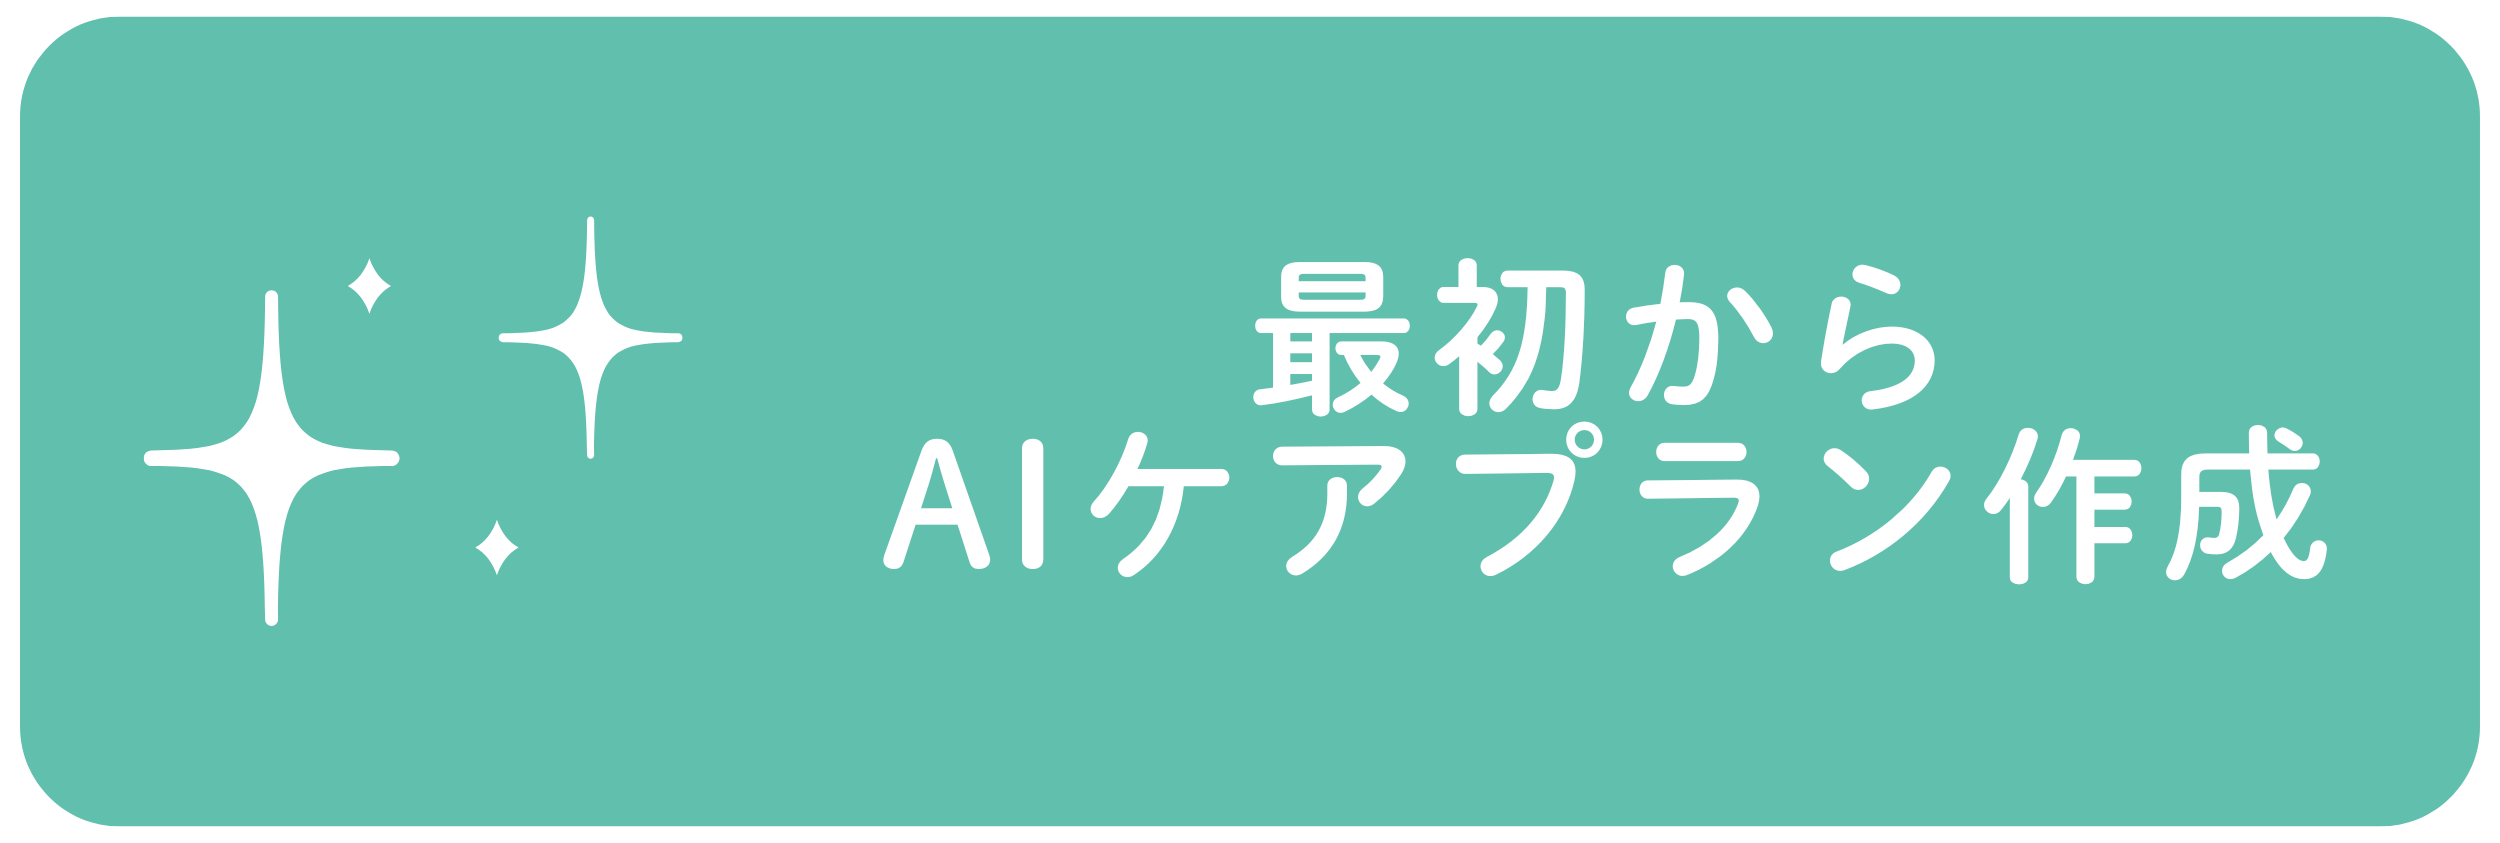
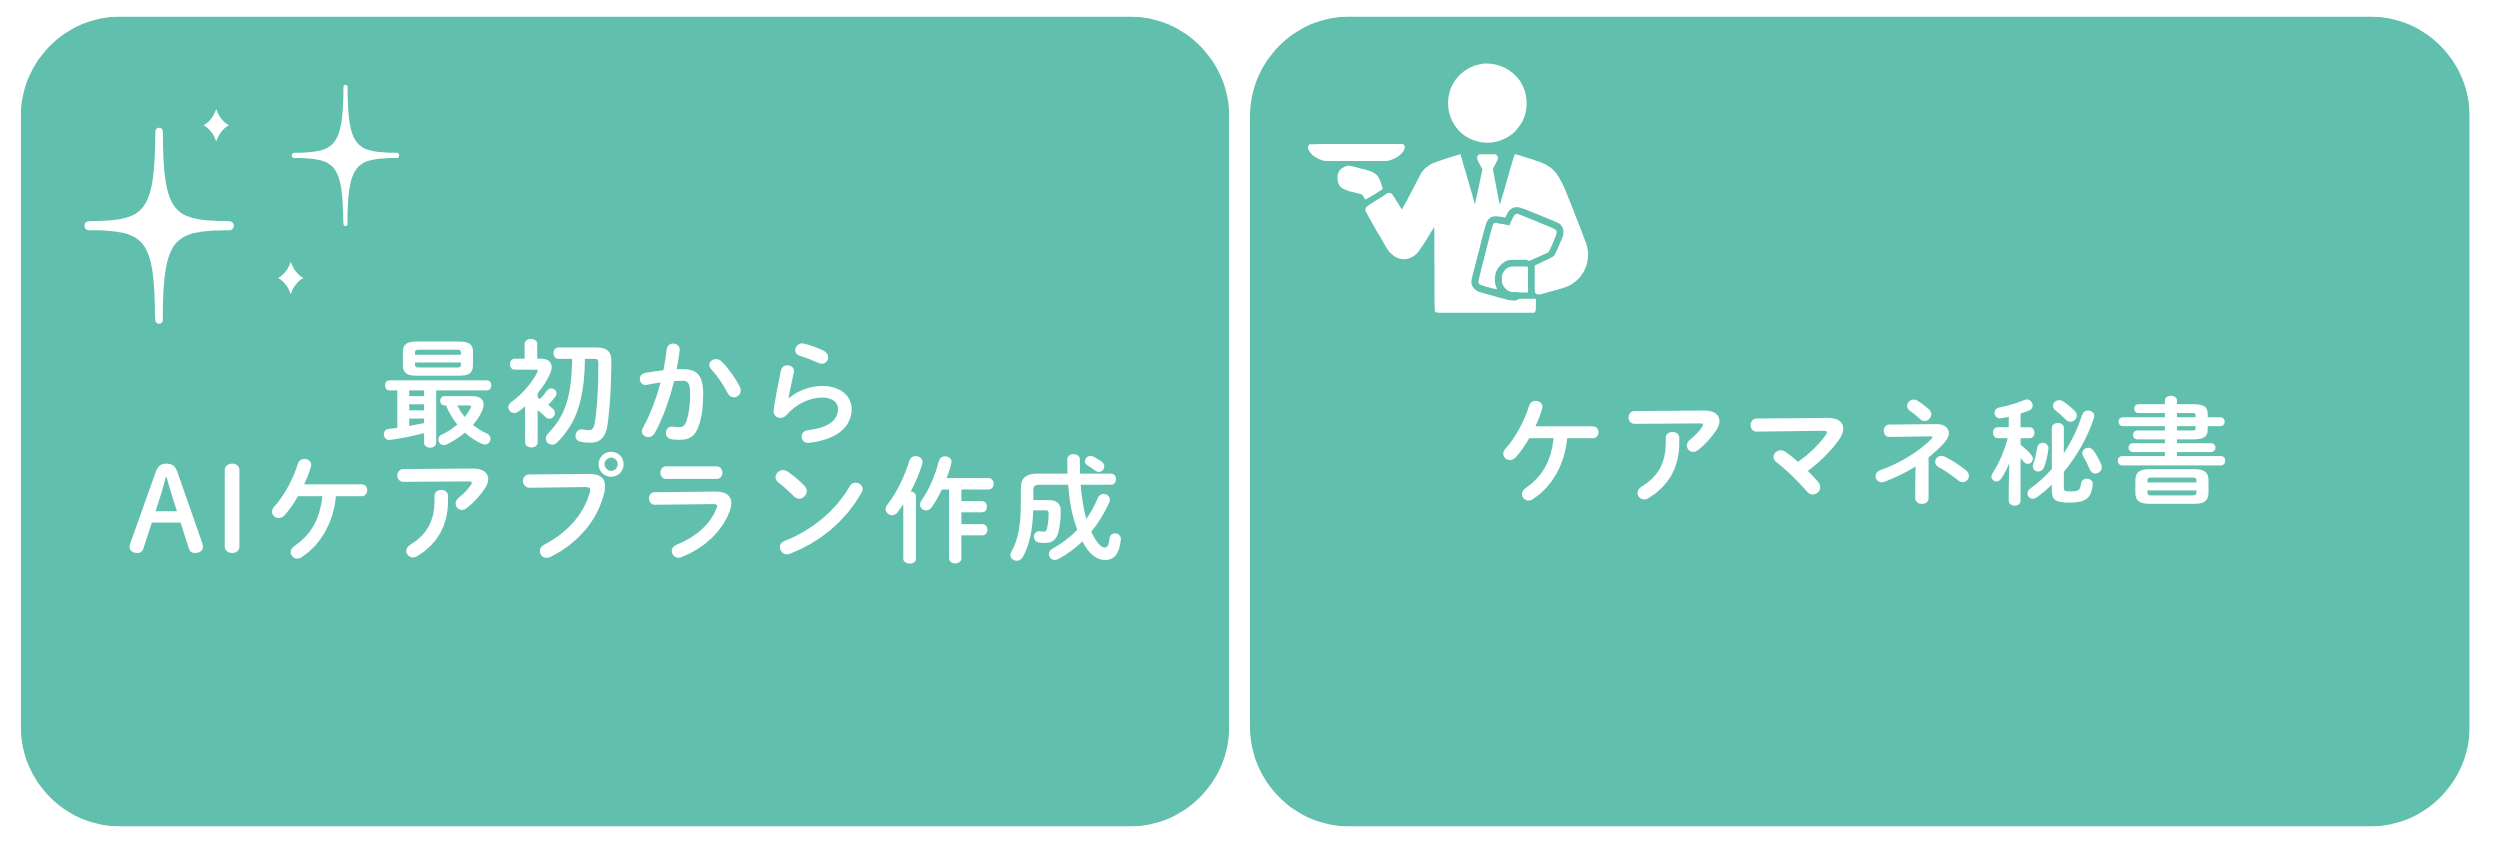
Add implementations for secretary

diff --git a/src/planer_bot/process_secretary.py b/src/planer_bot/process_secretary.py
@@ -1,0 +1,74 @@
+from linebot.v3.webhooks import PostbackEvent, MessageEvent
+from planer_bot.config import db, line_bot_api, openai_client
+from linebot.v3.messaging import (
+    ReplyMessageRequest,
+    TextMessage,
+    FlexMessage,
+    ShowLoadingAnimationRequest,
+)
+from planer_bot.views.flexmessage_list import generate_list_flex_bubble
+
+from planer_bot.gpt import answer_to_user_prompt_from_secretary
+
+
+async def process_secretary(event: PostbackEvent | MessageEvent) -> None:
+    line_identifier = event.source.user_id  # type: ignore
+
+    user_ref = db.collection("users").document(line_identifier)
+    user_info = user_ref.get().to_dict()
+    user_state = user_info.get("state")
+
+    if isinstance(event, MessageEvent):
+        user_text = event.message.text  # type: ignore
+        postback_data = None
+
+    elif isinstance(event, PostbackEvent):
+        postback_data = event.postback.data
+        user_text = ""
+
+    if postback_data == "secretary":
+        # 「ケアマネ秘書」をタップした場合
+        # User state の初期化と、最初の質問の提示
+
+        user_ref.set({"state": "wait_query_to_secretary"}, merge=True)
+
+        await line_bot_api.reply_message(
+            ReplyMessageRequest( # type: ignore
+                reply_token=event.reply_token,
+                messages=[
+                    TextMessage(text="質問カテゴリを選択してください"),
+                    FlexMessage(
+                        alt_text="質問カテゴリを選択してください",
+                        contents=generate_list_flex_bubble(
+                            labels = [
+                                "医師・看護師に質問",
+                                "歯科医師に質問",
+                                "薬剤師に質問",
+                                "栄養士に質問",
+                            ],
+                            input_option="openKeyboard",
+                            fill_in_text=True,
+                        ),
+                    ),
+                ],
+            )
+        )
+
+    if user_state == "wait_query_to_secretary":
+        # ケアマネ秘書に質問をする場合
+        # User state の初期化と、最初の質問の提示
+
+        user_ref.set({"state": None}, merge=True)
+        await line_bot_api.show_loading_animation(
+            ShowLoadingAnimationRequest(chatId=line_identifier)
+        )
+
+        answer = answer_to_user_prompt_from_secretary(openai_client, user_text)
+        await line_bot_api.reply_message(
+            ReplyMessageRequest(
+                reply_token=event.reply_token,
+                messages=[
+                    TextMessage(text=answer),
+                ],
+            )
+        )

diff --git a/src/planer_bot/views/flexmessage_list.py b/src/planer_bot/views/flexmessage_list.py
@@ -9,8 +9,13 @@ from typing import Literal
 
 InputOptions = Literal["openKeyboard", "openRichMenu", "closeRichMenu"]
 
+
 def generate_list_flex_bubble(  # type: ignore [no-any-unimported]
-    labels: list[str], title: str | None = None, text_align: str = "center", input_option: InputOptions | None  = None
+    labels: list[str],
+    title: str | None = None,
+    text_align: str = "center",
+    input_option: InputOptions | None = None,
+    fill_in_text: str | None = None,
 ) -> FlexBubble:
     """
     Flex Message のボタンリストを生成
@@ -39,10 +44,10 @@ def generate_list_flex_bubble(  # type: ignore [no-any-unimported]
         # ボタン風のデザインを FlexBox で作成（ここにアクションを設定）
         name_box = FlexBox(
             layout="vertical",
-            backgroundColor="#06c755", # LINE の緑
+            backgroundColor="#06c755",  # LINE の緑
             cornerRadius="md",  # 角丸
             paddingAll="lg",  # 内側の余白を増やしてボタンを大きく
-            #height="60px",  # ボタンの高さを強制的に大きくする
+            # height="60px",  # ボタンの高さを強制的に大きくする
             justifyContent="center",  # テキストを縦中央配置
             alignItems=text_align,  # ボタン内でのテキスト配置
             paddingLeft=padding_left,  # 左揃えの場合は余白を追加
@@ -51,17 +56,19 @@ def generate_list_flex_bubble(  # type: ignore [no-any-unimported]
                 data=label,
                 displayText=label,
                 inputOption=input_option,  # ここに input_option を追加
+                fillInText=label if fill_in_text is not None else None,  # テキストボックスに表示するテキスト
+
             ),
             contents=[
                 FlexText(
                     text=label,
                     weight="bold",
                     color="#FFFFFF",  # テキストを白に
-                    #align=text_alignment,  # 中央揃え or 左揃え
-                    #size="lg",  # 文字サイズを大きくしてボタン全体を大きく
+                    # align=text_alignment,  # 中央揃え or 左揃え
+                    # size="lg",  # 文字サイズを大きくしてボタン全体を大きく
                     wrap=True,  # テキストの折り返しを有効にする
                 )
-            ]
+            ],
         )
         name_list_box_contents.append(name_box)
 
@@ -71,4 +78,3 @@ def generate_list_flex_bubble(  # type: ignore [no-any-unimported]
     container.body.contents.append(name_list_box)
 
     return container
-

diff --git a/src/planer_bot/views/richmenu.py b/src/planer_bot/views/richmenu.py
@@ -23,8 +23,21 @@ def generate_richmenu() -> RichMenuRequest:
         chatBarText="ケアプラン作成スタート",
         areas=[
             RichMenuArea(
-                bounds=RichMenuBounds(x=0, y=0, width=2500, height=843),
-                action=PostbackAction(label="ケアプラン作成", data="create_care_plan", displayText="最初からケアプラン作成"),
+                bounds=RichMenuBounds(x=0, y=0, width=1250, height=843),
+                action=PostbackAction(
+                    label="ケアプラン作成",
+                    data="create_care_plan",
+                    displayText="最初からケアプラン作成",
+                ),
+            ),
+            RichMenuArea(
+                bounds=RichMenuBounds(x=1250, y=0, width=1250, height=843),
+                action=PostbackAction(
+                    label="ケアマネ秘書",
+                    data="secretary",
+                    inputOption="openKeyboard",
+                    displayText="ケアマネ秘書",
+                ),
             ),
         ],
     )
@@ -52,7 +65,7 @@ async def update_richmenu() -> None:
     existing_richmenus = await line_bot_api.get_rich_menu_list()
     for richmenu in existing_richmenus.richmenus:
         await line_bot_api.delete_rich_menu(richmenu.rich_menu_id)
-    
+
     # Create a new richmenu
     richmenu_response = await line_bot_api.create_rich_menu(generate_richmenu())
     richmenu_id = richmenu_response.rich_menu_id
@@ -61,9 +74,7 @@ async def update_richmenu() -> None:
     upload_richmenu_image(richmenu_id, path)
     await line_bot_api.set_default_rich_menu(richmenu_id)
 
-    db.collection("settings").document("richmenu").set(
-        {"richmenu_id": richmenu_id}
-    )
+    db.collection("settings").document("richmenu").set({"richmenu_id": richmenu_id})
     logger.info(f"Richmenu updated. {richmenu_id=}")
 
 

diff --git a/src/planer_bot/gpt.py b/src/planer_bot/gpt.py
@@ -1,7 +1,8 @@
-
 from jinja2 import Environment, FileSystemLoader, Template
 from functools import lru_cache
 from pathlib import Path
+from openai import OpenAI
+
 
 @lru_cache
 def get_template(template_name: str) -> Template:
@@ -11,8 +12,7 @@ def get_template(template_name: str) -> Template:
     return env.get_template(template_name)
 
 
-
-def anwer_to_care_planer(openai_client, answers: dict) -> str:
+def anwer_to_care_planer(openai_client: OpenAI, answers: dict) -> str:
     system_prompt = get_template("careplan_system_prompt.j2").render()
     user_prompt = get_template("careplan_user_prompt.j2").render(answers)
 
@@ -23,8 +23,8 @@ def anwer_to_care_planer(openai_client, answers: dict) -> str:
             {
                 "role": "user",
                 "content": user_prompt,
-            }
-        ]
+            },
+        ],
     )
     careplan_text = completion.choices[0].message.content
     if careplan_text:
@@ -32,3 +32,28 @@ def anwer_to_care_planer(openai_client, answers: dict) -> str:
     else:
         return ""
 
+
+def answer_to_user_prompt_from_secretary(openai_client: OpenAI, user_query: str) -> str:
+    system_prompt = get_template("secretary_system_prompt.j2").render()
+
+    response = openai_client.chat.completions.create(
+        model="gpt-4o-search-preview",
+        web_search_options={
+            "search_context_size": "medium",  # 検索深度
+            "user_location": {
+                "type": "approximate",
+                "approximate": {
+                    "country": "JP",  # 地域
+                },
+            },
+        },
+        messages=[
+            {"role": "system", "content": system_prompt},
+            {"role": "user", "content": user_query},
+        ],
+    )
+    answer_text = response.choices[0].message.content
+    if answer_text:
+        return answer_text
+    else:
+        return ""

diff --git a/src/planer_bot/handlers/postback.py b/src/planer_bot/handlers/postback.py
@@ -4,6 +4,7 @@ from linebot.v3.webhooks import PostbackEvent  # type: ignore
 
 from planer_bot.config import handler
 from planer_bot.process_careplan import process_care_plan
+from planer_bot.process_secretary import process_secretary
 
 logger = getLogger("uvicorn.app")
 
@@ -13,5 +14,9 @@ async def handle_postback(event: PostbackEvent) -> None:  # type: ignore[no-any-
     line_identifier = event.source.user_id
     logger.info(f"PostbackEvent. {line_identifier=}, {event.postback.data=}")
 
-    await process_care_plan(event)
+    postback_data = event.postback.data
 
+    if postback_data == "create_care_plan":
+        await process_care_plan(event)
+    elif postback_data == "secretary":
+        await process_secretary(event)

diff --git a/src/planer_bot/handlers/message.py b/src/planer_bot/handlers/message.py
@@ -5,6 +5,7 @@ from linebot.v3.webhooks import TextMessageContent
 
 from planer_bot.config import handler
 from planer_bot.process_careplan import process_care_plan
+from planer_bot.process_secretary import process_secretary
 
 logger = getLogger("uvicorn.app")
 
@@ -14,5 +15,6 @@ async def message_text(event: MessageEvent) -> None:  # type: ignore[no-any-unim
     line_identifier = event.source.user_id
     text = event.message.text
     logger.info(f"MessageEvent. {line_identifier=}, {text=}")
-    
+
     await process_care_plan(event)
+    await process_secretary(event)
